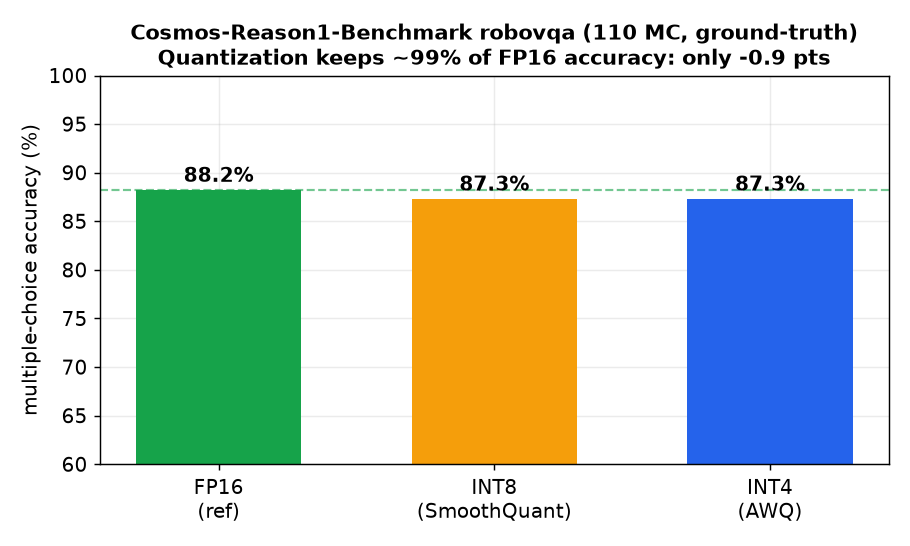
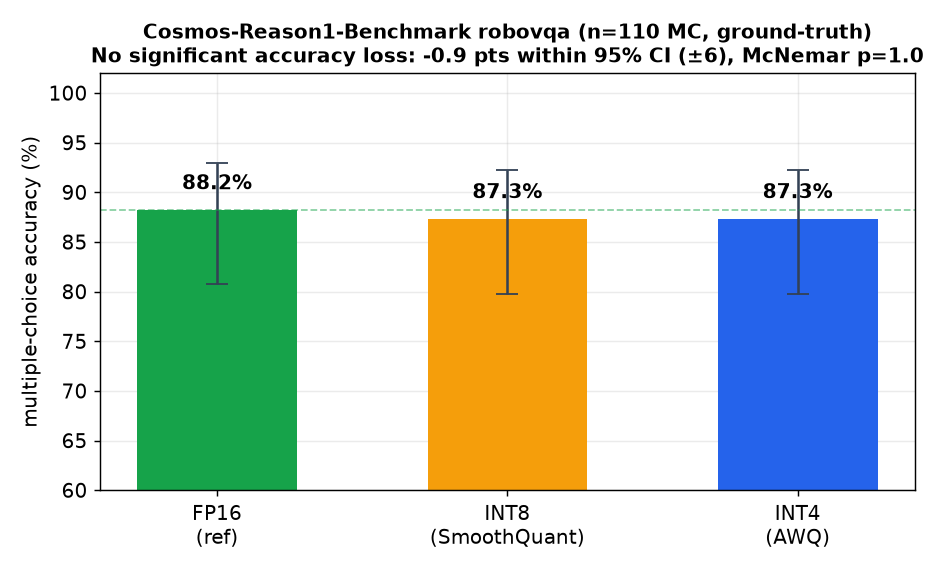
eval: report accuracy CIs + significance test (correct overstated -0.9pts claim)
n=110 binary MC -> Wilson 95% CI ~±6pts; McNemar p=1.0 (FP16 vs INT4/INT8, and INT4 vs
INT8) -> the -0.9pt gap is NOT statistically significant. Honest headline: 'no significant
task-accuracy loss from quantization'. Figure gains CI error bars (overlapping).

- benchmark_accuracy.png: Wilson CI error bars + honest title
- RESULTS.json: statistics block (CIs + McNemar)
- site/METHODOLOGY/edge_deploy_status/M5: reframed to 'no significant loss' + CI/p-value

Changed region(s): [[0.0, 0.0311, 0.9846, 0.9652]]

diff --git a/alpamayo-edge/site/index.html b/alpamayo-edge/site/index.html
@@ -77,7 +77,7 @@ footer a{color:var(--accent)}
   <p style="margin-bottom:4px"><strong>核心结论：</strong></p>
   <ol style="margin-top:0">
     <li><strong>量化是落地必需</strong>：FP16 引擎（~16GB）在 Orin 上 build 期 <strong>OOM 装不下</strong>；INT4(4.6GB)/INT8(7.9GB) 才能部署。</li>
-    <li><strong>量化几乎不掉正确率</strong>：真实基准上 INT4/INT8 仅 <strong>−0.9 个百分点</strong>（88.2%→87.3%，保留 ~99% FP16 任务正确率）。</li>
+    <li><strong>量化无显著正确率损失</strong>：真实基准上 88.2%→87.3%（−0.9 pts），但该差异 <strong>在 95% 置信区间(±6pts)内、McNemar p=1.0 → 统计不显著</strong>（n=110 偏小）。即量化在任务正确率上几乎无损。</li>
     <li><strong>选型：decode 看 INT4、prefill 看 INT8</strong>——INT4 decode 快 1.57×/更省电/更省显存(−42%)，INT8 prefill 快 1.9×/能效高 2.3×；生成越长 INT4 的 E2E 越占优。</li>
   </ol>
   <table class="io-table">
@@ -136,12 +136,12 @@ footer a{color:var(--accent)}
 
   <h3>1.2 精度：真实基准任务正确率（vs FP16）</h3>
   <p>在<strong>官方 <a href="https://huggingface.co/datasets/nvidia/Cosmos-Reason1-Benchmark" target="_blank" style="color:var(--accent)">Cosmos-Reason1-Benchmark</a>（robovqa 子集，110 道选择题带标准答案）</strong>上实测<strong>任务正确率</strong>——具体场景 + ground truth，效果指标有实际意义。视频按 6 帧（≤448px）采样作多图，FP16/INT8/INT4 用同一批帧，掉点严格可比。</p>
-  <figure><img src="figures/benchmark_accuracy.png" alt="benchmark task accuracy"><figcaption><b>横轴</b>：三种精度（FP16 参考 / INT8 / INT4）<br><b>竖轴</b>：多选题任务正确率 %（越高越好，绿虚线=FP16 基线 88.2%）<br><b>结果</b>：FP16 88.2%、INT8 87.3%、INT4 87.3%，量化仅掉 <strong>0.9 个百分点</strong>（与 FP16 预测一致率 91.8%）<br><b>分析</b>：在真实具身推理基准上，INT4/INT8 保留 ~99% 的 FP16 任务正确率 → 量化对下游正确率影响极小，边缘部署代价可接受</figcaption></figure>
+  <figure><img src="figures/benchmark_accuracy.png" alt="benchmark task accuracy"><figcaption><b>横轴</b>：三种精度（FP16 参考 / INT8 / INT4）<br><b>竖轴</b>：多选题任务正确率 %（误差棒=Wilson 95% 置信区间，绿虚线=FP16 88.2%）<br><b>结果</b>：FP16 88.2%、INT8/INT4 87.3%（−0.9 pts）；三者 <strong>CI 大幅重叠、McNemar p=1.0 → 差异统计不显著</strong><br><b>分析</b>：n=110、二选一(yes/no)使 CI 达 ±6pts，无法分辨这么小的差异。可下的稳妥结论是<strong>量化在任务正确率上无显著损失</strong>；要区分 INT4/INT8 需扩样本+更难的多选题</figcaption></figure>
   <table>
-    <tr><th>Cosmos-Reason1-Benchmark robovqa（110 MC）</th><th>FP16 参考</th><th>INT4 (AWQ)</th><th>INT8 (SmoothQuant)</th></tr>
-    <tr><td>任务正确率（越高越好）</td><td>88.2%</td><td class="win">87.3%</td><td class="win">87.3%</td></tr>
-    <tr><td>相对 FP16 掉点</td><td>—</td><td class="win">−0.9 pts</td><td class="win">−0.9 pts</td></tr>
-    <tr><td>与 FP16 预测一致率</td><td>100%</td><td>91.8%</td><td>91.8%</td></tr>
+    <tr><th>Cosmos-Reason1-Benchmark robovqa（n=110 MC）</th><th>FP16 参考</th><th>INT4 (AWQ)</th><th>INT8 (SmoothQuant)</th></tr>
+    <tr><td>任务正确率</td><td>88.2%</td><td>87.3%</td><td>87.3%</td></tr>
+    <tr><td>Wilson 95% CI</td><td>[80.8, 93.0]</td><td>[79.8, 92.3]</td><td>[79.8, 92.3]</td></tr>
+    <tr><td>vs FP16（McNemar p）</td><td>—</td><td>−0.9 pts (p=1.0，不显著)</td><td>−0.9 pts (p=1.0，不显著)</td></tr>
   </table>
 
   <h3>1.3 精度（辅助）：细粒度 perplexity 探针</h3>
@@ -186,7 +186,7 @@ footer a{color:var(--accent)}
   </div>
   <div class="callout">
     <div class="t">量化对精度影响很小 —— 两个指标的互补观察</div>
-    ① <strong>任务正确率（粗粒度、主指标）</strong>：真实基准上 INT4 与 INT8 <strong>打平</strong>（均 −0.9 pts），说明二者在下游"答对与否"层面都几乎无损。<br>
+    ① <strong>任务正确率（粗粒度、主指标）</strong>：INT4/INT8 相对 FP16 均 −0.9 pts，但 <strong>统计不显著</strong>（95% CI ±6pts、McNemar p=1.0，n=110 偏小）→ 稳妥结论是量化在任务正确率上<strong>无显著损失</strong>，且分辨不出 INT4 与 INT8。<br>
     ② <strong>perplexity（细粒度、辅助）</strong>：更敏感，能区分出 <strong>INT4 略优于 INT8</strong>（+9.8% vs +18.1%）。合理机制：INT4 为 AWQ(W4A16) 纯权重量化、激活保 16bit，对<strong>校准集域错配</strong>（校准用新闻文本）更鲁棒；INT8 SmoothQuant(W8A8) 连激活也量化、更敏感——<strong>机制明确但未做消融</strong>。<br>
     ③ <strong>口径</strong>：MC 正确率对比标准答案；perplexity 是已部署 TRT 引擎输出 vs FP16 的相对打分（"量化+引擎+后端"总差距）。
   </div>

diff --git a/alpamayo-edge/eval/bench_viz.py b/alpamayo-edge/eval/bench_viz.py
@@ -97,20 +97,23 @@ fig.tight_layout(rect=(0, 0, 1, 0.96))
 fig.savefig(os.path.join(OUT, "accuracy_dropoff.png")); plt.close(fig)
 
 # ---- Fig 6: task accuracy on official benchmark (Cosmos-Reason1 robovqa, MC) ----
-fig, ax = plt.subplots(figsize=(7, 4.2))
+# Wilson 95% CI (n=110): FP16 [80.8,93.0], INT4/INT8 [79.8,92.3]. McNemar p=1.0 (not significant).
+fig, ax = plt.subplots(figsize=(7.2, 4.4))
 labels = ["FP16\n(ref)", "INT8\n(SmoothQuant)", "INT4\n(AWQ)"]
 accs = [88.2, 87.3, 87.3]
+errs = [[7.4, 7.5, 7.5], [4.8, 5.0, 5.0]]  # [lower, upper] Wilson 95% CI half-widths
 colors = ["#16a34a", C8, C4]
-b = ax.bar(labels, accs, color=colors, width=0.6)
+b = ax.bar(labels, accs, color=colors, width=0.55,
+           yerr=errs, capsize=6, error_kw=dict(ecolor="#334155", lw=1.4))
 for r, a in zip(b, accs):
     ax.annotate(f"{a}%", (r.get_x()+r.get_width()/2, a), ha="center", va="bottom",
-                fontsize=11, fontweight="bold", xytext=(0, 2), textcoords="offset points")
+                fontsize=11, fontweight="bold", xytext=(0, 9), textcoords="offset points")
 ax.set_ylabel("multiple-choice accuracy (%)")
-ax.set_ylim(60, 100)
-ax.axhline(88.2, color="#16a34a", lw=1.2, ls="--", alpha=0.6)
-ax.set_title("Cosmos-Reason1-Benchmark robovqa (110 MC, ground-truth)\n"
-             "Quantization keeps ~99% of FP16 accuracy: only -0.9 pts",
-             fontweight="bold", fontsize=11.5)
+ax.set_ylim(60, 102)
+ax.axhline(88.2, color="#16a34a", lw=1.0, ls="--", alpha=0.5)
+ax.set_title("Cosmos-Reason1-Benchmark robovqa (n=110 MC, ground-truth)\n"
+             "No significant accuracy loss: -0.9 pts within 95% CI (±6), McNemar p=1.0",
+             fontweight="bold", fontsize=11)
 fig.tight_layout(); fig.savefig(os.path.join(OUT, "benchmark_accuracy.png")); plt.close(fig)
 
 print("wrote:", ", ".join(sorted(os.listdir(OUT))))

diff --git a/alpamayo-edge/docs/M5_report.md b/alpamayo-edge/docs/M5_report.md
@@ -24,7 +24,7 @@
 > **横轴**：三类产物(Orin LLM 引擎 / 打包 tgz / 载入显存)<br>**竖轴**：体积(GB)<br>**结果**：INT4 比 INT8 约省 42%<br>**分析**：LLM 主干 INT8≈INT4 的 1.7×(近 W8A8 vs W4A16 理论 2×，差在共享 fp16 词嵌入/视觉塔)；省下的显存可留给更长 KV cache 或多模型并存
 
 ![benchmark accuracy](figures/benchmark_accuracy.png)
-> **横轴**：三种精度(FP16/INT8/INT4)<br>**竖轴**：真实基准 MC 任务正确率 %(绿虚线=FP16 88.2%)<br>**结果**：FP16 88.2%、INT8/INT4 均 87.3%，掉点 −0.9 pts<br>**分析**：官方 Cosmos-Reason1-Benchmark(robovqa,带标准答案)上量化保留 ~99% 任务正确率 → 量化对下游正确率影响极小。**另:FP16 引擎在 Orin build 期 OOM(16GB>29GB)→ 量化是部署必需**。
+> **横轴**：三种精度(FP16/INT8/INT4)<br>**竖轴**：真实基准 MC 任务正确率 %(绿虚线=FP16 88.2%)<br>**结果**：FP16 88.2%、INT8/INT4 均 87.3%（−0.9 pts，误差棒=Wilson 95%CI）<br>**分析**：CI 大幅重叠、McNemar p=1.0 → 差异**统计不显著**(n=110)，稳妥结论=**量化无显著任务正确率损失**。**另:FP16 引擎在 Orin build 期 OOM(16GB>29GB)→ 量化是部署必需**。
 
 ![accuracy drop-off](figures/accuracy_dropoff.png)
 > （辅助/细粒度）**横轴**：左=平均 perplexity，右=与 FP16 的一致性(一致前缀占比 % / 长度 token)<br>**竖轴**：左=perplexity(越低越贴近 FP16，虚线=FP16 基线 1.237)，右=百分比 / token 数<br>**结果**：INT4 掉点 +9.8% 小于 INT8 +18.1%<br>**分析**：INT4(W4A16 纯权重、激活留 16bit)对校准域错配更鲁棒，INT8(W8A8)连激活量化更敏感 → 掉点更大；本负载 INT4 既快又保真
@@ -64,7 +64,7 @@
 
 - 用 NVIDIA TensorRT-Edge-LLM 将 8B 多模态大模型 (Cosmos-Reason2) 量化为 INT4/INT8 并部署至 Jetson Orin，
   实测标准服务指标 **INT4 decode 30.9 TPS / TTFT 301ms @ ~40W**、**INT8 prefill 3252 TPS**；在**官方 Cosmos-Reason1-Benchmark**
-  上量化仅掉 **0.9 个百分点(88.2%→87.3%)** 任务正确率；并发现 **FP16(16GB) 在 Orin OOM 无法部署→量化是落地必需**。
+  上量化**无显著任务正确率损失**(88.2%→87.3%，−0.9pts，McNemar p=1.0)；并发现 **FP16(16GB) 在 Orin OOM 无法部署→量化是落地必需**。
 - 定位并修复 sm_87 上的 FMHA kernel 派发崩溃：从崩溃断言追到 CMake 构建配置（漏传 Orin target flag
   致 sm_87 kernel 被编译排除），非平凡的跨层（运行时 kernel 表 ↔ 编译宏 ↔ CMake）根因排查。
 - 建立 INT4/INT8 在延迟/吞吐/显存/功耗/能效/上下文扩展性/量化掉点的完整边缘画像，沉淀为可复用部署工作流。

diff --git a/alpamayo-edge/docs/edge_deploy_status.md b/alpamayo-edge/docs/edge_deploy_status.md
@@ -74,10 +74,10 @@ Kaggle(T4x2) 量化+导出 → 打包 → 下载/校验 → scp 到 Orin → TRT
 | | FP16 参考 | INT4 (AWQ) | INT8 (SmoothQuant) |
 |---|---|---|---|
 | MC 任务正确率 | 88.2% | 87.3% | 87.3% |
-| 相对 FP16 掉点 | — | **−0.9 pts** | **−0.9 pts** |
-| 与 FP16 预测一致率 | 100% | 91.8% | 91.8% |
+| Wilson 95% CI | [80.8,93.0] | [79.8,92.3] | [79.8,92.3] |
+| 相对 FP16 | — | −0.9 pts (p=1.0) | −0.9 pts (p=1.0) |
 
-视频按 6 帧(≤448px)采样作多图，FP16(云端 PyTorch)/INT8/INT4(Orin) **同帧**→掉点严格可比。**量化保留 ~99% FP16 任务正确率**。方法/口径见 [METHODOLOGY.md](METHODOLOGY.md) §3.3；产物 `eval/accuracy/benchmark/`。robovqa 子集(具身机器人推理，非驾驶)、6帧@448 非官方原生视频协议——绝对分不追求复现论文。
+视频按 6 帧(≤448px)采样作多图，FP16(云端 PyTorch)/INT8/INT4(Orin) **同帧**→掉点严格可比。**统计检验:CI ≈ ±6pts、McNemar p=1.0 → 差异不显著(n=110 偏小)** → 稳妥结论是**量化无显著任务正确率损失**(非精确"掉 0.9pts")。方法/口径见 [METHODOLOGY.md](METHODOLOGY.md) §3.3；产物 `eval/accuracy/benchmark/`。robovqa 子集(具身机器人推理，非驾驶)、6帧@448 非官方原生视频协议——绝对分不追求复现论文。
 
 > **FP16 无设备端性能基线**：FP16 引擎(~16GB)在 Orin `llm_build` 期 **OOM 被杀(exit 137)** → FP16 无法在此边缘设备部署；**量化是落地必需**，"加速比"以显存可行性(FP16 装不下、INT4/INT8 从容)替代呈现。
 

diff --git a/alpamayo-edge/docs/METHODOLOGY.md b/alpamayo-edge/docs/METHODOLOGY.md
@@ -63,7 +63,7 @@ llm_bench --engineDir engines/int4/llm --mode decode  --pastKVLen 512 --iteratio
 - **能效 tok/J = 吞吐(tok/s) ÷ 平均功耗(W)**。
 
 ### 3.3 量化掉点(`eval/accuracy/`)
-**主指标 — MC 任务正确率(真实基准)**:在 Cosmos-Reason1-Benchmark(robovqa,110 MC)上,FP16(云端 PyTorch)/INT8/INT4(Orin) 用同一批 6 帧@448 多图,模型贪心输出→正则解析首个 A–D 字母→比标准答案。**结果:FP16 88.2% / INT8 87.3% / INT4 87.3%(掉点 −0.9 pts)**,与 FP16 预测一致率 91.8%。产物 `eval/accuracy/benchmark/RESULTS.json`。
+**主指标 — MC 任务正确率(真实基准)**:在 Cosmos-Reason1-Benchmark(robovqa,110 MC)上,FP16(云端 PyTorch)/INT8/INT4(Orin) 用同一批 6 帧@448 多图,模型贪心输出→正则解析首个 A–D 字母→比标准答案。**结果:FP16 88.2% / INT8 87.3% / INT4 87.3%(−0.9 pts)**,与 FP16 一致率 91.8%。**统计检验:Wilson 95% CI ≈ ±6pts(FP16[80.8,93.0]、INT4/INT8[79.8,92.3]),McNemar p=1.0 → 差异统计不显著**(n=110、二选一,CI 偏宽)。稳妥结论:**量化无显著任务正确率损失**;要分辨 INT4/INT8 需扩样本+更难多选题。产物 `eval/accuracy/benchmark/RESULTS.json`。
 
 **辅助指标 — perplexity + token 一致率(12 prompt 探针)**:
 - FP16 参考在 **Kaggle T4×2** 用 PyTorch 加载原模型(Orin 无外网、8B fp16≈16GB 本地装不下)。
